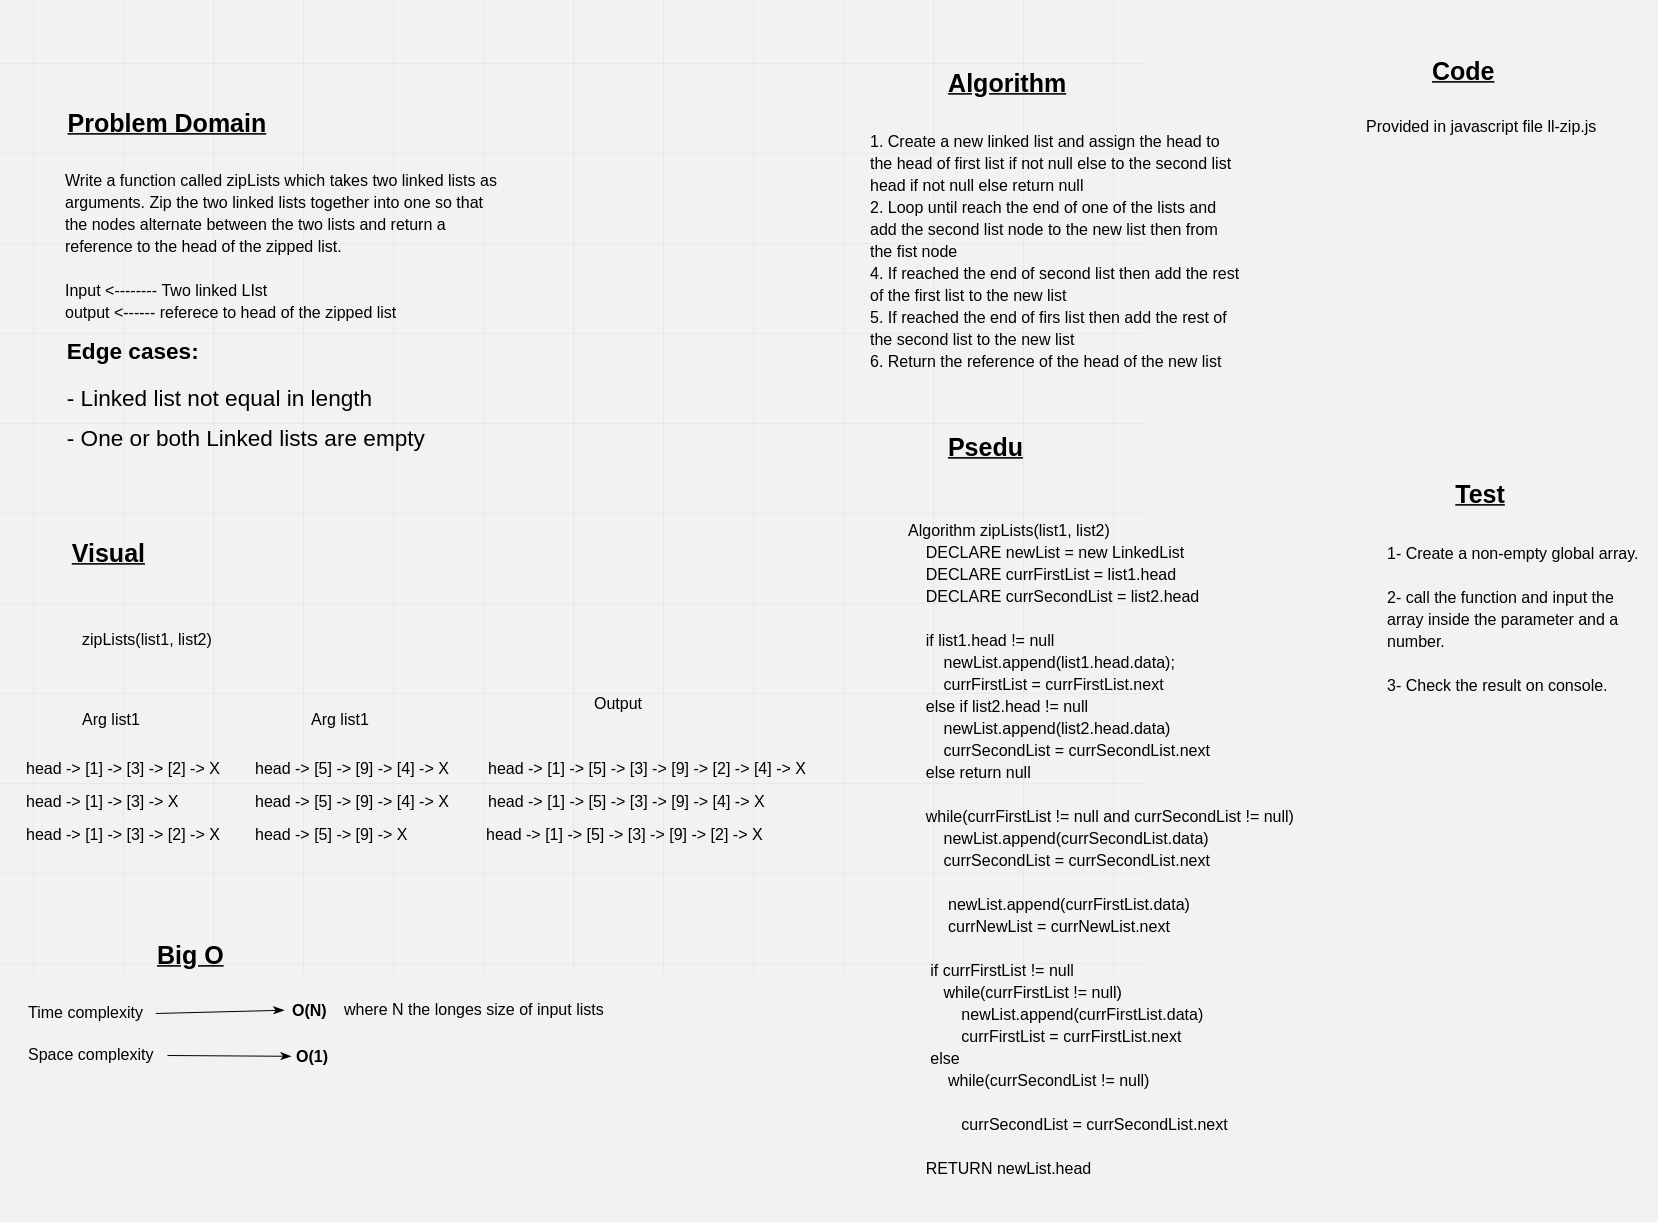
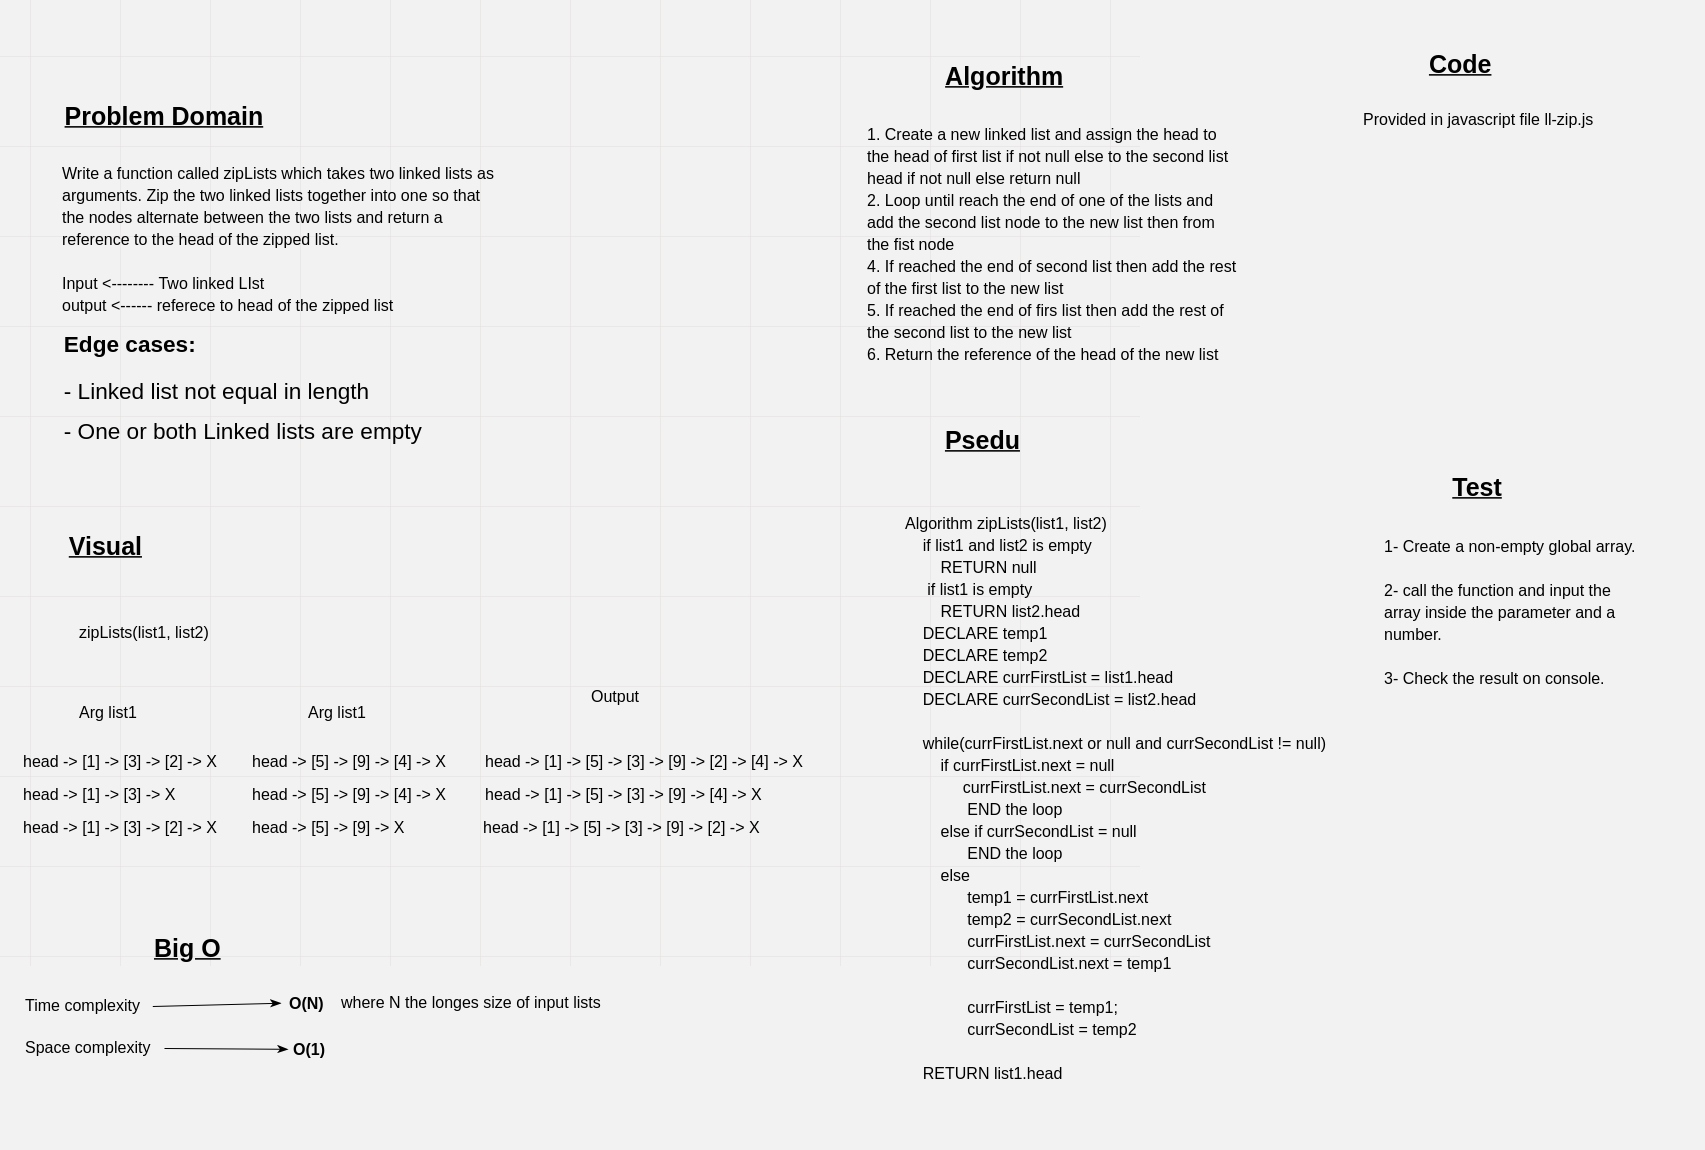
make ll-zip function take O(1) space complexity

diff --git a/llZip/ll-zip.js b/llZip/ll-zip.js
@@ -1,56 +1,47 @@
 'use strict';
 
-const { LinkedList } = require('../Data-Structures/linkedList/linked-list');
-
 function zipLists(list1, list2) {
+  // Check some edge cases
+  // if two lists are empty
+  if(!list2.head && !list1.head){
+    return null;
+  }
+  // if first list was empty
+  if (!list1.head){
+    list1.head = list2.head;
+    return list1.head;
+  }
 
-    // Create the new linked list
-    let newList = new LinkedList();
+  // Define the pointers for each list
+  let temp1;
+  let temp2;
+  let currFirstList = list1.head;
+  let currSecondList = list2.head;
 
-    // Define the pointers for each list
-    let currFirstList = list1.head;
-    let currSecondList = list2.head;
-
-    // Determine the head of the new list
-    if(list1.head !== null){
-        newList.append(list1.head.data);
-        currFirstList = currFirstList.next;
-    } else if (list2.head !== null){
-        newList.append(list2.head.data);
-        currSecondList = currSecondList.next;
+  // Adding nodes to the new list if don't reach the end of any list
+  while (currFirstList.next !== null || currSecondList !== null) {
+    // Rearrange the order of two list
+    if (currFirstList.next === null) { // currSecondList not null
+      // assing the last node's next to the last node we reach in list two 
+        currFirstList.next = currSecondList;
+        //end the first list, end the loop
+        break;
+    } else if(currSecondList === null){ // currFirstList.next not null
+        // end the second list end the loop
+        break;
     } else {
-        return null;
+        // both lists not ended yet
+      temp1 = currFirstList.next;
+      temp2 = currSecondList.next;
+      currFirstList.next = currSecondList;
+      currSecondList.next = temp1;
+      // change the pointers to the next nodes
+      currFirstList = temp1;
+      currSecondList = temp2;
     }
 
-    // Adding nodes to the new list if don't reach the end of any list
-    while(currFirstList !== null && currSecondList !== null){
-        // Adding node to the new list from the second list
-        newList.append(currSecondList.data);
-        // Set the pointer of the list2 to the next node
-        currSecondList = currSecondList.next;
-        
-        // Adding node to the new list from the first list
-        newList.append(currFirstList.data);
-        // Set the pointer of the list2 to the next node
-        currFirstList = currFirstList.next;
-    }
-
-    // Already reached the second list end, adding the rest of the first list nodes to the new list
-    
-    if(currFirstList !== null ){
-        while(currFirstList !== null){
-            newList.append(currFirstList.data);
-            currFirstList = currFirstList.next;
-        }
-    } else if(currSecondList !== null ) {
-        // Already reached the second list end, adding the rest of the second list nodes to the new list
-        while(currSecondList !== null){
-            newList.append(currSecondList.data);
-            currSecondList = currSecondList.next;
-        }
-    }
-    
-    return newList.head;
+  }
+  return list1.head;
 }
 
 module.exports = zipLists;

diff --git a/llZip/README.md b/llZip/README.md
@@ -9,11 +9,8 @@ Writing a function called **zipLists** which takes two linked lists as arguments
 ## Approach & Efficiency
 
 - The approach was taken is by make two pointers to the first and second list for traversing
-- starting from the head of the first node if not null else from the head from the second list
-- Then loop until we reach the end of any lists
-- On each iteration we point a new node from the second first then from the first list
-- After reaching the end of one of list we add the rest of nodes of the remaining list in sequence
-
+- Then loop until we reach the end of both lists
+- On each iteration we change the next of each nodes to make the ordere as expected
 - Time complexity < ------ O(N), where N is the size of longest list
 - Space complexity < ------- O(1)
 
